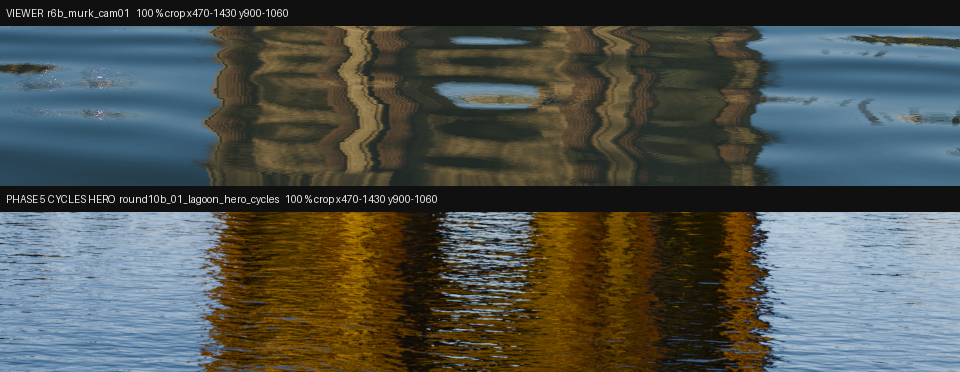
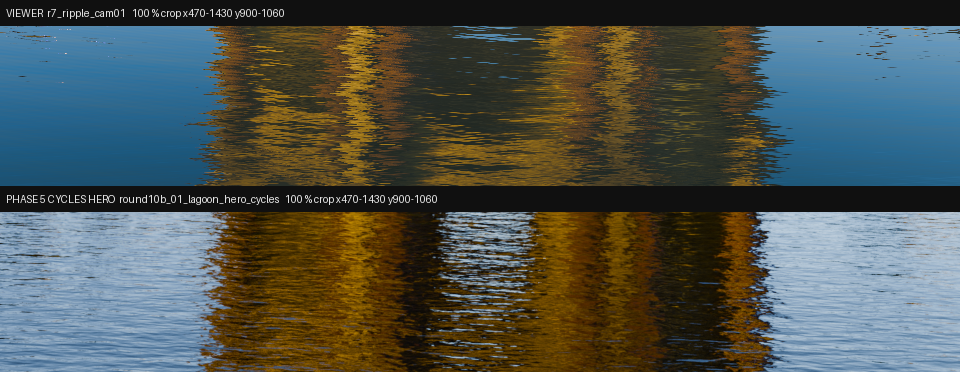
Item 1 round 7 measured and the composite re-cut: rowHF 3.88 -> 6.91, row/col 2.22 -> 3.71 (ref 3.24), refl-mass lum 90.3 (ref 88.2) hue 45.6 (ref 42.4) sat 0.211 -> 0.411; banding gone. Residual attributed to the reflection lobe on the open water.

Changed region(s): [[0.0, 0.0, 1.0, 0.5027]]

diff --git a/web/README.md b/web/README.md
@@ -325,6 +325,48 @@ Measured at cam01 (`water_probe.py`, `open water 300 900 1600 1060`), round-6 WI
 | Fresnel fall | 33.6 | 26.7 | 36.1 | see below |
 | refl-mass lum | 65.9 | **84.8** | 88.2 | 0.75x -> 0.96x |
 
+Round 7 then replaced the ripple and the reflection tint (the lead's (i)-(iii) after judging the tile):
+
+* **(i) the ripple is procedural and in metres.** The 256 px 8-bit tiled normal map is gone. The height
+  field is eight sine waves summed in the shader with ANALYTIC derivatives, geometrically spaced
+  1.20 m -> 0.034 m (43 px -> 1.2 px at the hero's near water, where a pixel is 2.76 cm) — the
+  reference sheet's "0.3-1 m streaks by 2-5 cm ripples". Directions are a STRATIFIED fan of +/- 25°
+  about world Z (eight random draws from the old cosine-power spread put two waves 51° and 73° off
+  axis, which is a cross sea, not wind ripple). Amplitude is set by SLOPE, not height: every wave
+  carries the same slope amplitude, so `RIPPLE.slopeRms` 0.0131 rad (0.75°) is the whole surface's rms
+  slope — read back from the Phase 5 hero, whose reflection wanders ~30 px at the near water. Each
+  wave fades out below about one pixel footprint (`fwidth`), which is the viewer's equivalent of
+  MAT_water_lagoon's Toksvig depth ramp and is why the far lagoon does not sizzle.
+* **(ii) no more contour banding**, by construction: nothing is quantised to 8 bits any more.
+* **(iii) the screen displacement is derived, and `reflSat` ships at 1.0.** A slope `s` tips the
+  reflected ray by `2s`, and the projection turns that into `P00 / P11` times it in ndc, half that in
+  uv — so the offset is exactly `projectionMatrix * slope`, read per station instead of fitted at the
+  hero's 20 mm lens. `distortion`, `distortAniso`, `normalScale` and `rippleTiling` are therefore all
+  1.0 and are A/B dials only, and the round-6 grazing multiplier (not physical: the ray tips by `2s`
+  whatever the incidence) ships at 0. `reflSat` 0.66 was double-counting the murk — the body term now
+  goes through the same mix explicitly — and a dielectric's Fresnel reflection is spectrally flat, so
+  it and `reflectTint` are 1.0. That is the warm drain the reflected ochre was losing.
+
+| cam01 | round-6 WIP | + derived murk | + round-7 ripple | reference |
+|---|---|---|---|---|
+| open water lum | 68.0 | 87.3 | **88.4** | 118.0 |
+| open water hue | 198.9 | 194.8 | **195.6** | 144.8 |
+| open water sat | 0.292 | 0.245 | **0.361** | 0.041 |
+| open water rowHF | 4.60 | 3.88 | **6.91** | 13.23 |
+| open water row/col | 2.23 | 2.22 | **3.71** | 3.24 |
+| Fresnel fall | 33.6 | 26.7 | **20.8** | 36.1 |
+| refl-mass lum | 65.9 | 84.8 | **90.3** | 88.2 |
+| refl-mass hue | 42.1 | 50.7 | **45.6** | 42.4 |
+| refl-mass sat | 0.299 | 0.211 | **0.411** | 0.596 |
+
+Where the building reflects, the water is now at reference (lum 1.02x, hue within 3.2°). What is left
+is the OPEN water: its reflection is still `(1.91, 3.05, 3.90)` where the Phase 5 hero needs
+`(4.89, 4.89, 4.76)` — 0.39x in red. The sky at the mirrored 13-21° elevations is `(1.2-2.1,
+3.4-5.5, 7.2-10.2)`, so that red cannot come from the sky: Cycles' open lagoon is reflecting warm
+sunlit stone and shore across the whole crop where the viewer's much cleaner planar mirror reflects
+sky. That is a reflection-lobe width question, not a murk or a ripple one, and it is what keeps the
+open water's hue at 196° and its saturation at 0.361.
+
 The fall gets SMALLER, and that is the diagnosis rather than a regression: the ladder measures how much
 darker the near water (mostly body) is than the far water (mostly mirror), so it is set by the ratio
 between the body and the reflection. Inverting both frames through the LUT, the Phase 5 hero's open
